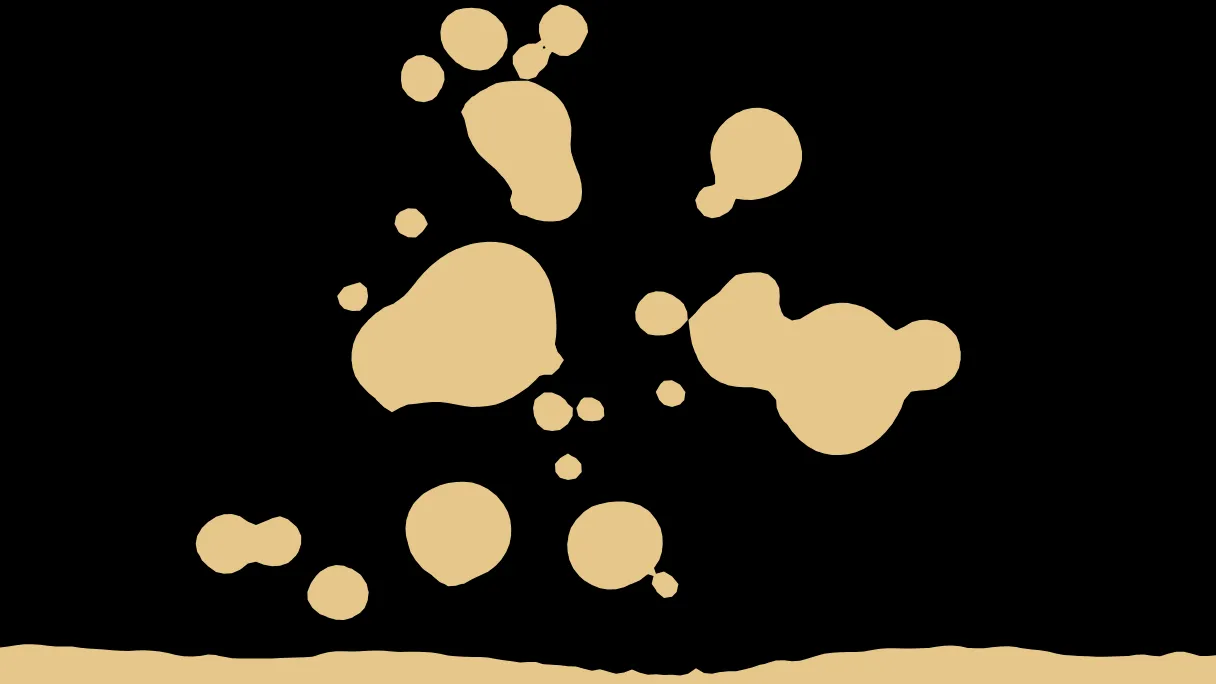
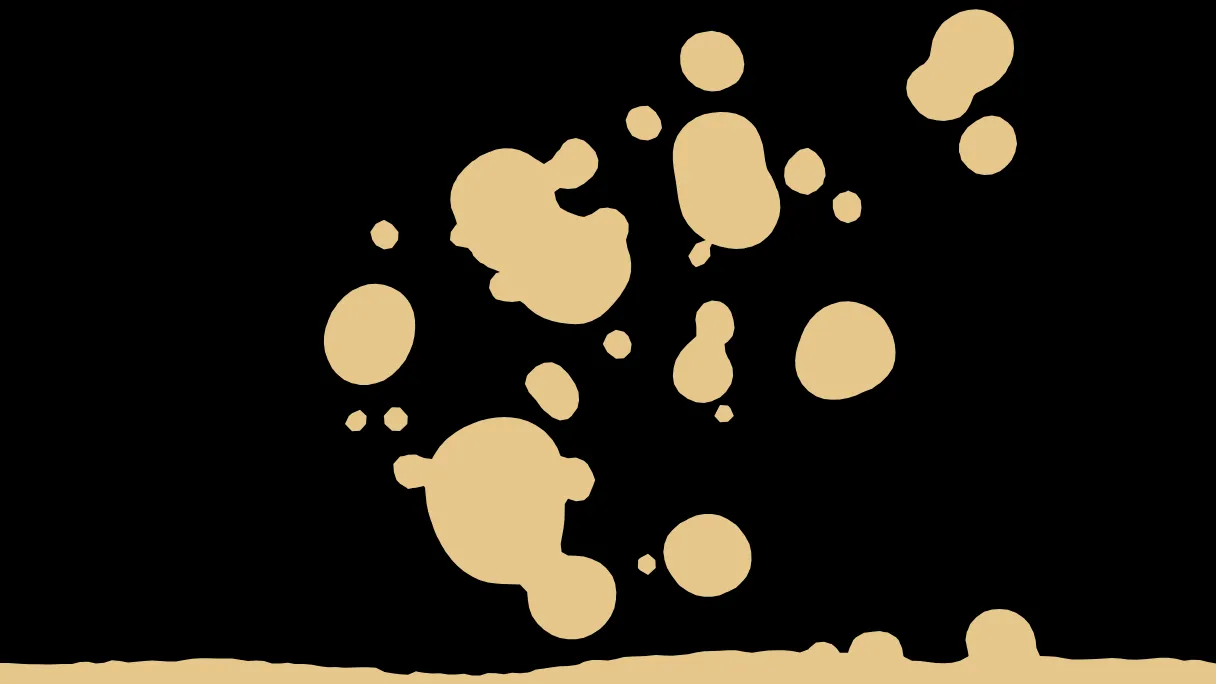
feat(experiments): melting's plate is the lamp now, and embers lights a fresh fire
Melting keeps its seeds, because two screens showing the same lamp is its
premise (melting.spec.ts failed without them); its variety is the moment,
so its recipe no longer jumps to a fixed one. Embers had no seed setting
but drew its air, bed and jitter from a constant, so with a deterministic
settle its plate was the same fire on every load.

diff --git a/src/experiments/melting/presets.ts b/src/experiments/melting/presets.ts
@@ -13,6 +13,10 @@ export const PRESETS: Preset<Settings>[] = [
     label: "lava lamp",
     hint: "An icosahedron tumbling on a slow, hard-tipping beat and losing a corner now and then, among nine small lumps of a little wax that rise quickly and often split. Andrei's, found by dragging.",
     settings: {
+      // Pinned, every one. The lamp is a function of the moment and the seed
+      // alone, so two screens show the same lamp: the piece's premise, held by
+      // `melting.spec.ts`. A different moment on every load is the variety here.
+      seed: 7,
       shape: "icosa",
       motion: "tumble",
       clock: "wall",
@@ -53,6 +57,7 @@ export const PRESETS: Preset<Settings>[] = [
     label: "tempus",
     hint: "The lava lamp at its steadiest: a lopsided icosahedron that now and then turns into another solid, there three cycles in four, over a bottomless pool whose surface the beats heap region by region.",
     settings: {
+      seed: 7,
       shape: "icosa",
       motion: "tumble",
       clock: "wall",
@@ -93,6 +98,7 @@ export const PRESETS: Preset<Settings>[] = [
     label: "ora",
     hint: "Tempus in colour: every corner and every lump wears one of four colours the stream picks — a corner turns to a new one every few beats, a lump takes one each time it leaves the pool.",
     settings: {
+      seed: 7,
       shape: "icosa",
       motion: "tumble",
       clock: "wall",
@@ -133,6 +139,7 @@ export const PRESETS: Preset<Settings>[] = [
     label: "lava pong",
     hint: "Wax on both ends: tempus with a ceiling hung as deep as its pool, so the lumps rise from one layer into the other and back. Turn the screen on its side and leave it in landscape, and the two layers face each other like paddles.",
     settings: {
+      seed: 271828,
       shape: "icosa",
       motion: "tumble",
       clock: "wall",
@@ -173,6 +180,7 @@ export const PRESETS: Preset<Settings>[] = [
     label: "calm",
     hint: "Three big lumps, slow to rise and seldom splitting, over a deep pool.",
     settings: {
+      seed: 7,
       shape: "icosa",
       motion: "tumble",
       clock: "wall",
@@ -213,6 +221,7 @@ export const PRESETS: Preset<Settings>[] = [
     label: "fleeting",
     hint: "The lava lamp with the timekeeper there about half the time: it gathers into one blob and sinks into the pool, and later rises out of it and spreads into its corners again.",
     settings: {
+      seed: 7,
       shape: "icosa",
       motion: "tumble",
       clock: "wall",
@@ -253,6 +262,7 @@ export const PRESETS: Preset<Settings>[] = [
     label: "wax alone",
     hint: "No timekeeper at all: only the wax rising, splitting, gathering and sinking. An art piece and no clock.",
     settings: {
+      seed: 7,
       shape: "icosa",
       motion: "tumble",
       clock: "wall",

diff --git a/src/experiments/melting/poster.ts b/src/experiments/melting/poster.ts
@@ -2,24 +2,23 @@ import type { ExperimentApi } from "@/experiments/melting/runner"
 import type { PosterRecipe } from "@/experiments/poster"
 
 /**
- * What Melting looks like when somebody should want to click it.
+ * What Melting looks like when somebody should want to click it: the lamp as it
+ * is right now.
  *
- * **The lamp is a function of its seed and the moment**, so a fixed moment
- * makes the poster reproducible: the primary carries a seed, and `goto` puts
- * the lamp at one moment and draws it there whole, with nothing to settle.
- * Without it every capture would be whatever minute the shutter landed in.
- *
- * The moment, written inline because `prepare` runs in the page and closes
- * over nothing, was picked by eye from a handful of candidates.
+ * **The lamp is a function of its seed and the moment.** This recipe used to
+ * `goto` one moment, picked by eye, so every capture was the same picture. Since
+ * 2026-11-06 the plates on the index are meant to differ from load to load
+ * (`../docs/adr/20261106-a-preset-names-a-look-not-an-arrangement.md`), and
+ * this piece's presets keep their seed, because two screens showing the same
+ * lamp is its premise. So the variety here is the moment: the plate holds
+ * whatever the wall clock says when it is drawn, with nothing to settle.
  */
-
 const poster: PosterRecipe<ExperimentApi> = {
   // No preset named, so it captures the primary — which is what a bare address
   // lands on, and therefore what the plate is promising.
   settings: {},
   prepare: ({ api }) => {
     api.pause(true)
-    api.goto(1_800_000_101)
   },
   // The clock is held, so waiting changes nothing but the chrome, which pausing
   // brings back and which takes `--ui-fade` to leave again — hexgrid's lesson.

diff --git a/src/experiments/embers/embers.ts b/src/experiments/embers/embers.ts
@@ -171,15 +171,20 @@ export function createEmbers(canvas: HTMLCanvasElement, initial: Settings): Embe
   let dpr = 1
   let view: View = makeView(settings.span, settings.hearth, 1, 1)
 
-  // The one seed in the piece, and it decides almost nothing: a continuous
-  // emission has no arrangement to preserve, so all this fixes is which
-  // silhouettes exist and the sequence the fire draws its jitter from. There is
-  // no reroll button for the same reason — the scene rerolls itself, constantly.
+  // The one fixed seed in the piece, and it decides only which silhouettes
+  // exist. There is no reroll button: a continuous emission has no arrangement
+  // to preserve, and the scene rerolls itself, constantly.
   const seed = 0x656d62
-  const rng = makeRng(hashSeed(seed, 0x706f6f6c))
+  // **The fire itself is drawn fresh on every start.** The air, the bed and the
+  // jitter used to share the fixed seed, and `settle` is deterministic, so the
+  // index's plate was the same fire on every load. Andrei asked for the plates
+  // to differ from load to load
+  // (`../docs/adr/20261106-a-preset-names-a-look-not-an-arrangement.md`).
+  const stream = hashSeed(seed, Math.floor(Math.random() * 0x7fffffff))
+  const rng = makeRng(hashSeed(stream, 0x706f6f6c))
 
-  const air: Air = createAir(settings, seed)
-  const bed: Bed = createBed(settings, seed)
+  const air: Air = createAir(settings, stream)
+  const bed: Bed = createBed(settings, stream)
   let sheet: Sheet = makeSheet(settings.hue, settings.hueSpread, seed)
 
   let pool: Ember[] = []

diff --git a/src/experiments/melting/tests/melting.spec.ts b/src/experiments/melting/tests/melting.spec.ts
@@ -17,7 +17,7 @@ import { expect, openExperiment, test } from "../../../../tests/support/experime
  * size count as drawn.
  */
 
-/** Any moment will do; this one is the poster's. */
+/** Any moment will do; this one was the poster's until 2026-11-06. */
 const MOMENT = 1_800_000_101
 
 const SATELLITE_ID = 100_000

diff --git a/src/experiments/docs/adr/20261106-a-preset-names-a-look-not-an-arrangement.md b/src/experiments/docs/adr/20261106-a-preset-names-a-look-not-an-arrangement.md
@@ -28,9 +28,14 @@ landing, the preset buttons, the number and arrow keys, `experiment.preset()`
 and the index's plates. A preset that names a seed keeps it, which is for a
 preset whose point is one arrangement.
 
-The seeds were removed from every preset except two: artdeco's `ziggurat` and
-`banded` run `unison: "all"`, where a third of seeds stop at a few segments,
-so theirs stay pinned.
+The seeds were removed from every preset except where one is the point:
+
+- **artdeco's `ziggurat` and `banded`** run `unison: "all"`, where a third of
+  seeds stop at a few segments;
+- **every melting preset**, because the lamp is a function of the moment and
+  the seed alone, so two screens show the same lamp. That is the piece's
+  premise, and `melting.spec.ts` holds it. It varies anyway, because every
+  load is a different moment.
 
 **The address still carries the seed in use**, so a copied link reproduces
 the screen exactly. Only a preset stopped being an exact scene.

diff --git a/src/experiments/embers/AGENTS.md b/src/experiments/embers/AGENTS.md
@@ -295,8 +295,11 @@ honest answers.
 ## What this piece deliberately does not have
 
 - **No seed, and no reroll.** A continuous emission has no arrangement to
-  preserve — the scene rerolls itself, constantly. The one seeded thing is the
+  preserve — the scene rerolls itself, constantly. The one fixed seed is the
   set of outlines in `draw.ts`, so a recaptured poster gets the same silhouettes.
+  The air, the bed and the jitter draw from a fresh stream on every start, since
+  2026-11-06: with a fixed one, a deterministic `settle` made the index's plate
+  the same fire on every load.
   A consequence worth knowing: **no capture of this piece is reproducible**, for
   the same reason Starry Night's is not.
 
